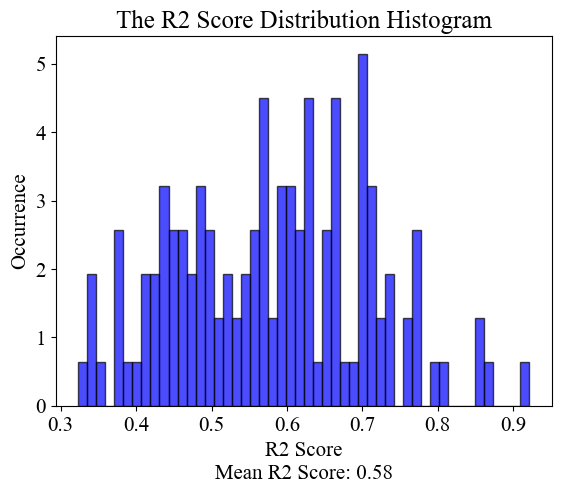
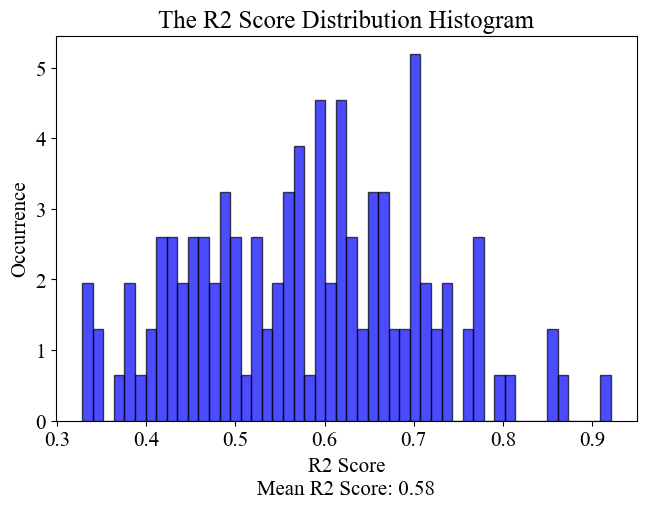
update

Changed region(s): [[0.0, 0.0, 1.0, 0.9717]]

diff --git a/training_xgboost_model.py b/training_xgboost_model.py
@@ -2,24 +2,14 @@
 # Models are dumped into ./models and results are dumped into two csv files in the current work directory.
 
 import argparse
-import json
-import os
-import pickle
 import warnings
-from datetime import datetime
-from typing import Tuple
 
 import numpy as np
 import pandas as pd
-import xgboost as xgb
-from imblearn.over_sampling import SMOTE
-from sklearn.model_selection import KFold
-from tqdm import tqdm
-from xgboost import DMatrix, cv
 
 # Set up an argument parser to decide the metric function
 parser = argparse.ArgumentParser()
-parser.add_argument("--metric", choices=['R2', 'RMSE', '10acc', 'MSE'], type=str, required=False, default='R2',
+parser.add_argument("--metric", choices=['1-R2', 'RMSE', '10acc', 'MSE'], type=str, required=False, default='1-R2',
                     help="The objective metric you want to use to train the XGBoost model")
 parser.add_argument("--log", choices=[0, 1, 100], type=int, required=False, default=False,
                     help="Whether to print out the training progress")
@@ -33,14 +23,16 @@ pd.set_option('display.max_rows', None)
 # Load the data with a positive AC electricity consumption value, and drop the time data as we don't need them
 data = pd.read_csv("summer_data_compiled.csv", index_col=0)
 data = data[data.AC > 0].drop(['Time', 'Date', 'Hour'], axis=1).reset_index(drop=True)
-
+for i in data['Location'].unique():
+    print(i, len(data[data.Location == i]))
+raise Exception("Error")
 # Create some directory to store the models and future analysis figures.
 log_folder_name = "Test_{}_{}".format(args.metric, datetime.now().strftime("%Y_%m_%d_%H_%M_%S"))
 os.mkdir('./{}'.format(log_folder_name))
 os.mkdir('./{}/models/'.format(log_folder_name))
 
 
-# Define our objective functions
+# Define our evaluation functions
 def ten_percent_accuracy(predt: np.ndarray, dtrain: DMatrix) -> Tuple[str, float]:
     total = len(predt)
     truth_value = dtrain.get_label()
@@ -68,7 +60,7 @@ def R2(predt: np.ndarray, dtrain: DMatrix) -> Tuple[str, float]:
     return "1-R2", 1 - R2
 
 
-objective_dict = {'RMSE': RMSE, 'R2': R2, 'MSE': MSE, '10acc': ten_percent_accuracy}
+objective_dict = {'RMSE': RMSE, '1-R2': R2, 'MSE': MSE, '10acc': ten_percent_accuracy}
 
 print("Start Training The Models")
 # Create two dataframes to store the result during the training and after the training.
@@ -103,7 +95,7 @@ for room in tqdm(data['Location'].unique()):
 
     # setup our training parameters and a model variable as model checkpoint
     param_dict = {'objective': 'reg:squarederror', 'max_depth': 10, 'reg_alpha': 7, 'min_child_weight': 0.1,
-                  'colsample_bytree': 0.8, 'learning_rate': 0.04}
+                  'colsample_bytree': 0.8, 'learning_rate': 0.06}
     xgb_model = None
 
     # We use KFold in scikit-learn as our cross-validation mechanism. 10 folds is used for each room.
@@ -116,11 +108,11 @@ for room in tqdm(data['Location'].unique()):
         # If there is already a checkpoint model, we'll keep training the checkpoint,
         # Otherwise, it will train from the beginning. It will ultimately bring us the cross-validated xgboost model.
         if xgb_model is None:
-            xgb_model = xgb.train(params=param_dict, dtrain=input_matrix, num_boost_round=300, evals=watchlist,
+            xgb_model = xgb.train(params=param_dict, dtrain=input_matrix, num_boost_round=100, evals=watchlist,
                                   feval=objective_dict[args.metric], maximize=True, xgb_model=None,
                                   verbose_eval=args.log)
         else:
-            xgb_model = xgb.train(params=param_dict, dtrain=input_matrix, num_boost_round=300, evals=watchlist,
+            xgb_model = xgb.train(params=param_dict, dtrain=input_matrix, num_boost_round=100, evals=watchlist,
                                   feval=objective_dict[args.metric], maximize=True, xgb_model=xgb_model,
                                   verbose_eval=args.log)
     pickle.dump(xgb_model, open('./{}/models/{}.pickle.bat'.format(log_folder_name, room), 'wb'))

diff --git a/prediction_processing.py b/prediction_processing.py
@@ -25,7 +25,7 @@ room_list = pd.read_csv('summer_data_compiled.csv')['Location'].unique()
 plt.rc('font', family='Times New Roman')
 plt.rcParams["savefig.bbox"] = "tight"
 
-folder_name = 'Test_R2_2021_03_30_12_27_42'
+folder_name = 'Original_Version_Models'
 
 
 # Define our own original data loader
@@ -42,7 +42,7 @@ def original_dataloader(room: int):
     room_data_smote, smote_split = model_smote.fit_resample(X, y)
     room_data_smote = pd.concat([room_data_smote, smote_split], axis=1)
     y = room_data_smote['AC']
-    X = room_data_smote.drop(['AC', 'Location', 'SMOTE_split'], axis=1)
+    X = room_data_smote.drop(['AC', 'Location'], axis=1)
     return X, y
 
 
@@ -71,14 +71,14 @@ def view_shap_importance(room: int):
 
 
 # This is the function to calculate the RMSE value of a room, based on the model's predictions.
-def calculate_R2_RMSE(room: int):
+def calculate_R2_MSE_RMSE(room: int):
     data = pd.read_csv('./{}/prediction.csv'.format(folder_name), index_col=None)
     data = data[data.room == room].reset_index(drop=True)
     real = json.loads(data.loc[0, 'real'])
     predict = json.loads(data.loc[0, 'predict'])
     square_sum = sum([(real[i] - predict[i]) ** 2 for i in range(len(real))])
     R2 = r2_score(real, predict)
-    return R2, sqrt(square_sum / len(real))
+    return R2, square_sum / len(real), sqrt(square_sum / len(real))
 
 
 # This function plots the interacted shapley value for each room's temperature and humidity.
@@ -123,14 +123,15 @@ def plot_distribution(room: int):
 
 # This is the function to plot the error and root mean square error distribution of all the rooms.
 def plot_error_distribution():
-    r2_list, rmse_list = [], []
+    r2_list, mse_list, rmse_list = [], [], []
     # Looping through all the room and collect the statistics we need.
     for room_f in room_list:
         if room_f == 309 or room_f == 312 or room_f == 917 or room_f == 1001:
             continue
-        r2, rmse = calculate_R2_RMSE(room_f)
+        r2, mse, rmse = calculate_R2_MSE_RMSE(room_f)
         r2_list.append(r2)
         rmse_list.append(rmse)
+        mse_list.append(mse)
     plt.rcParams.update({'font.size': 15})
     # Use the historgram in matplotlib to plot the accuracy distribution histogram.
     plt.hist(r2_list, bins=50, density=True, facecolor="blue", edgecolor="black", alpha=0.7)
@@ -140,11 +141,17 @@ def plot_error_distribution():
     plt.savefig('./{}/R2Dis.png'.format(folder_name), bbox_inches='tight')
     plt.clf()
     # Use the same to plot the root mean square error distribution histogram.
-    plt.hist(rmse_list, bins=40, density=True, facecolor="blue", edgecolor="black", alpha=0.7)
+    plt.hist(rmse_list, bins=50, density=True, facecolor="blue", edgecolor="black", alpha=0.7)
     plt.xlabel("Root Mean Square Error\nMean RMSE: {}".format(round(mean(rmse_list), 4)))
     plt.ylabel("Occurrence")
     plt.title("The RMSE Distribution Histogram")
     plt.savefig('./{}/RMSEDis.png'.format(folder_name), bbox_inches='tight')
+    plt.clf()
+    plt.hist(mse_list, bins=50, density=True, facecolor="blue", edgecolor="black", alpha=0.7)
+    plt.xlabel("Mean Square Error\nMean MSE: {}".format(round(mean(mse_list), 4)))
+    plt.ylabel("Occurrence")
+    plt.title("The MSE Distribution Histogram")
+    plt.savefig('./{}/MSEDis.png'.format(folder_name), bbox_inches='tight')
     plt.clf()
 
 

diff --git a/SMOTE_plot_demonstration.py b/SMOTE_plot_demonstration.py
@@ -10,7 +10,7 @@ import pandas as pd
 from imblearn.over_sampling import SMOTE
 from tqdm import tqdm
 
-folder_name = 'Test_R2_2021_03_30_12_27_42'
+folder_name = 'Test_1-R2_2021_03_31_15_29_37'
 
 # Make the folder to store the result
 if not os.path.exists('./{}/SMOTE_room/'.format(folder_name)):

diff --git a/README.md b/README.md
@@ -52,7 +52,7 @@ after cross validation and the real-prediction value of each room.
 We provide some statistical results by the XGBoost models.
 ![R2 Score Distribution Histogram](R2Dis.png)
 ![RMSE Distribution Histogram](RMSEDis.png)
-
+![MSE Distribution Histogram](MSEDis.png)
 ## 4. Result Visualization
 
 After you've trained the models, run the `prediction_processing.py` to generate the visual graphs of the result.
